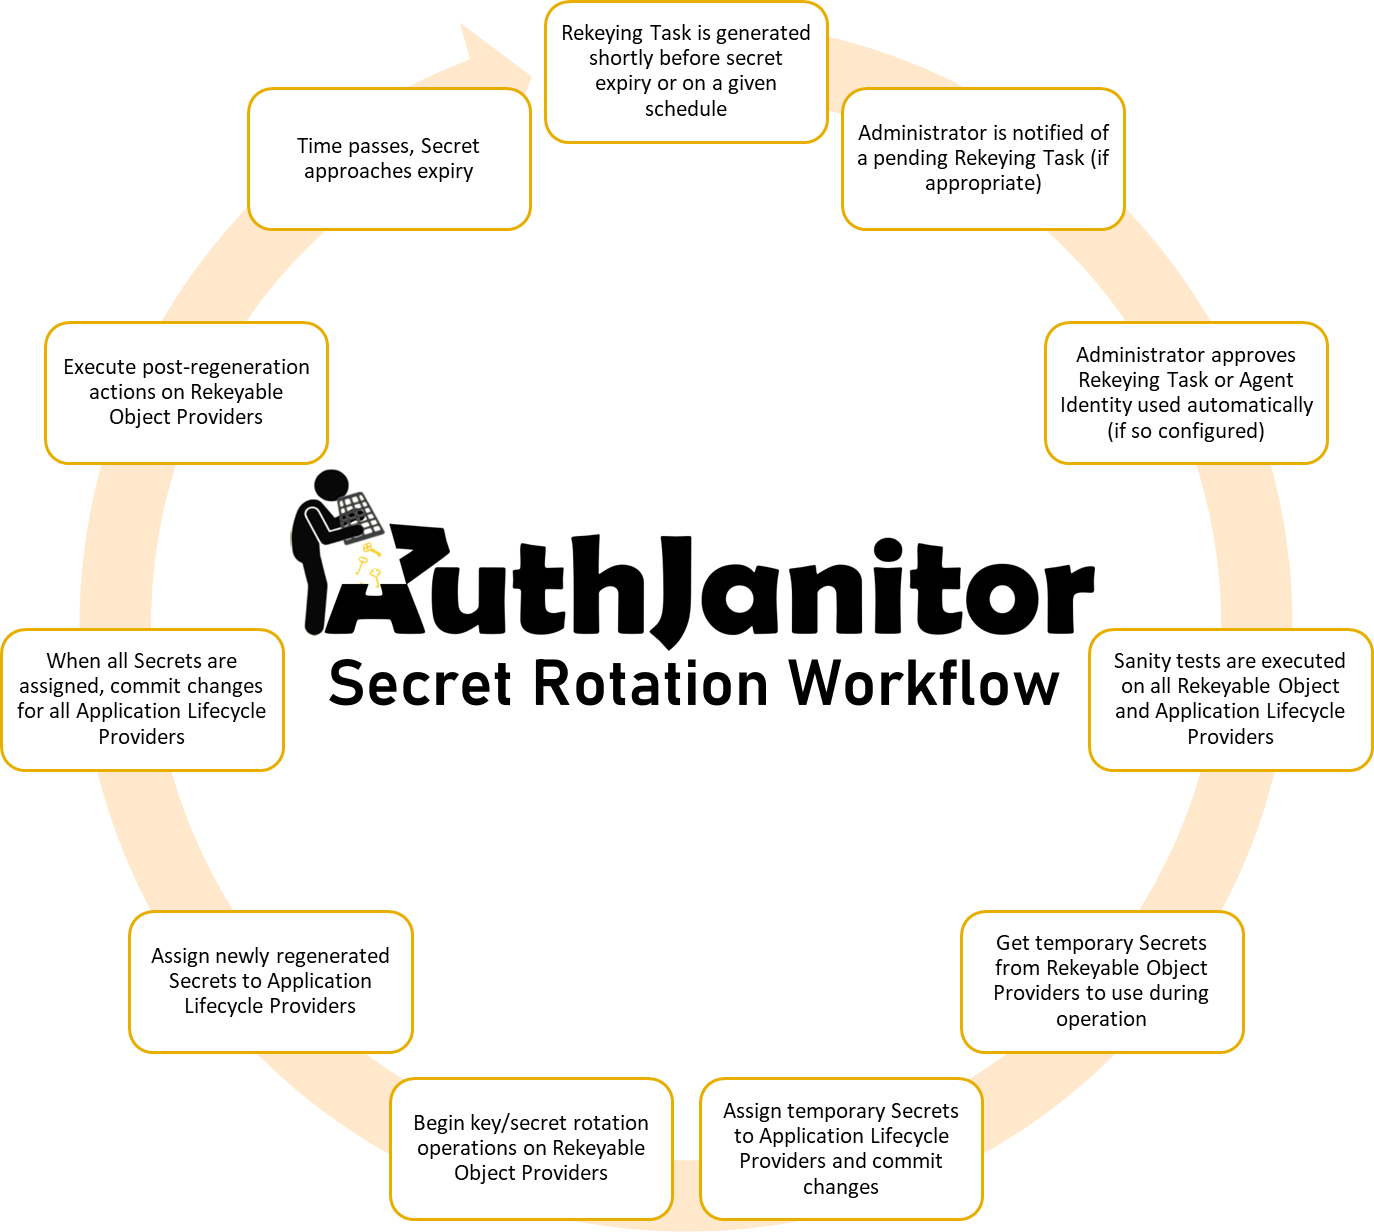
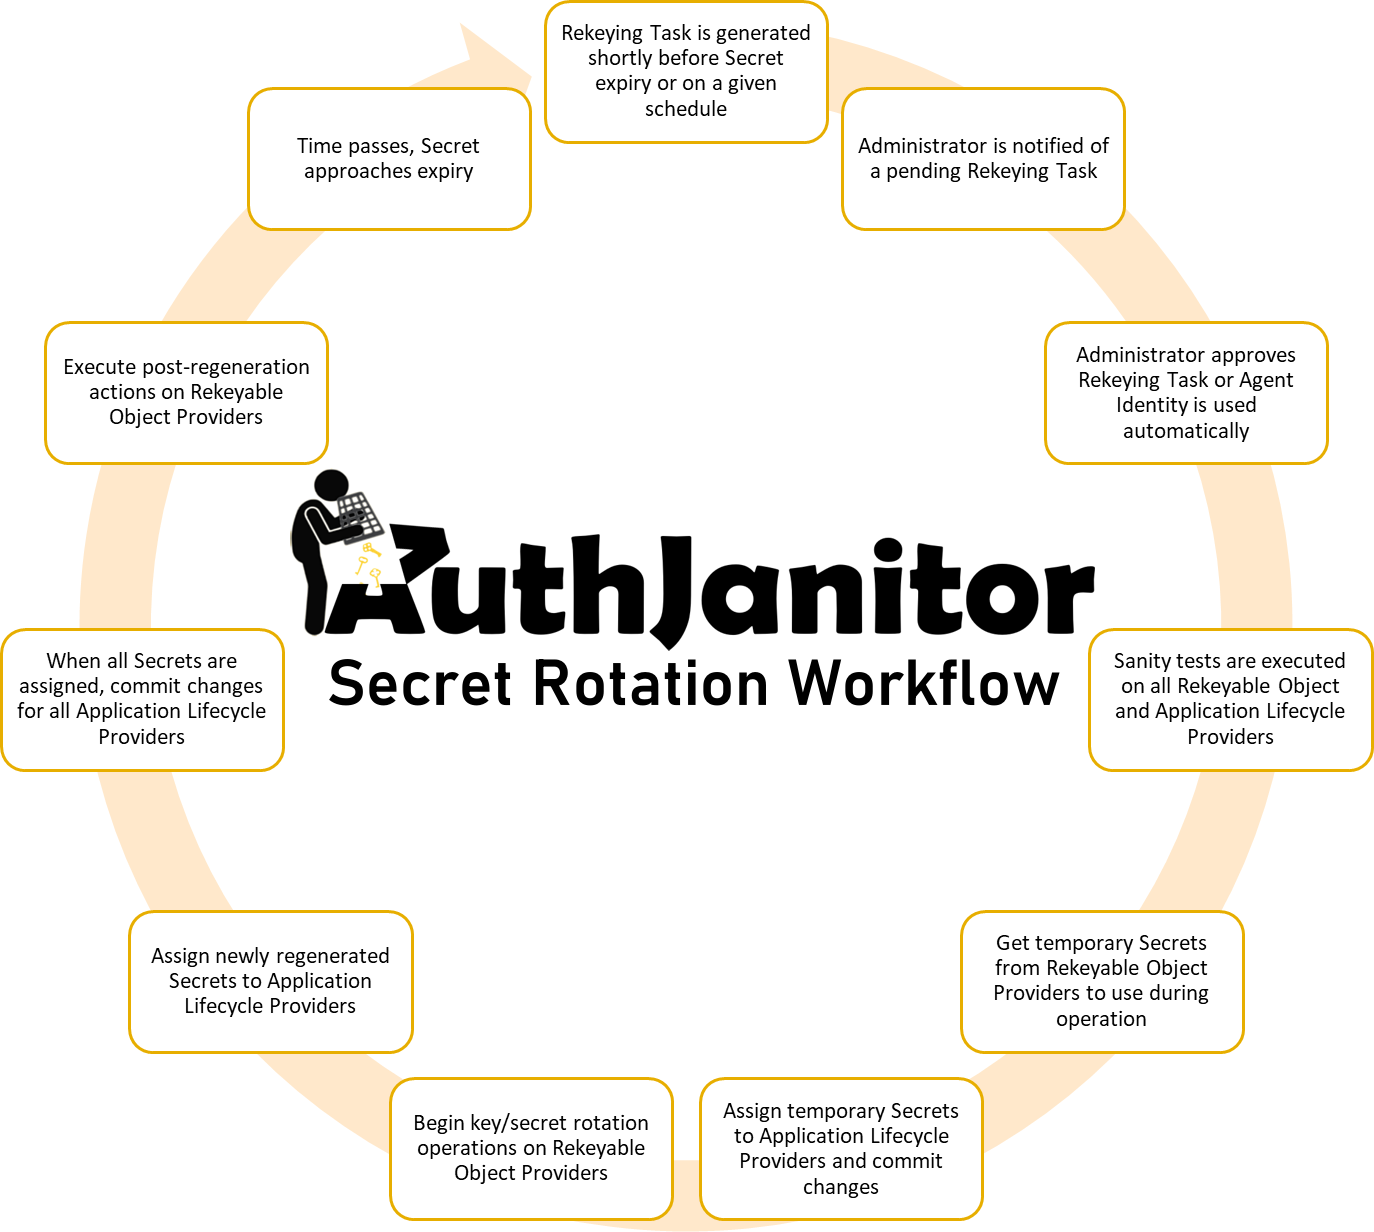
Update infographic in docs

Changed region(s): [[0.6114, 0.0925, 0.8253, 0.1542], [0.7642, 0.3084, 0.9476, 0.3701], [0.4279, 0.0308, 0.5808, 0.0617]]

diff --git a/docs/index.html b/docs/index.html
@@ -80,7 +80,7 @@
                     from the Administrator Tool.</p>
                 <hr>
             </div>
-            <div class="row"><img class="img-fluid" src="assets/img/SecretRotationWorkflow.png?h=796b9a29e822b6035822d30560e28d8e"></div>
+            <div class="row"><img class="img-fluid" src="assets/img/SecretRotationWorkflow.png?h=4296ec114829e399a0a72c0a242819fe"></div>
         </div>
     </section>
     <section class="download text-center bg-info" style="overflow:hidden;"><i class="fas fa-robot" style="position: absolute;font-size: 50vh;right: 0;opacity: 0.10;"></i>
